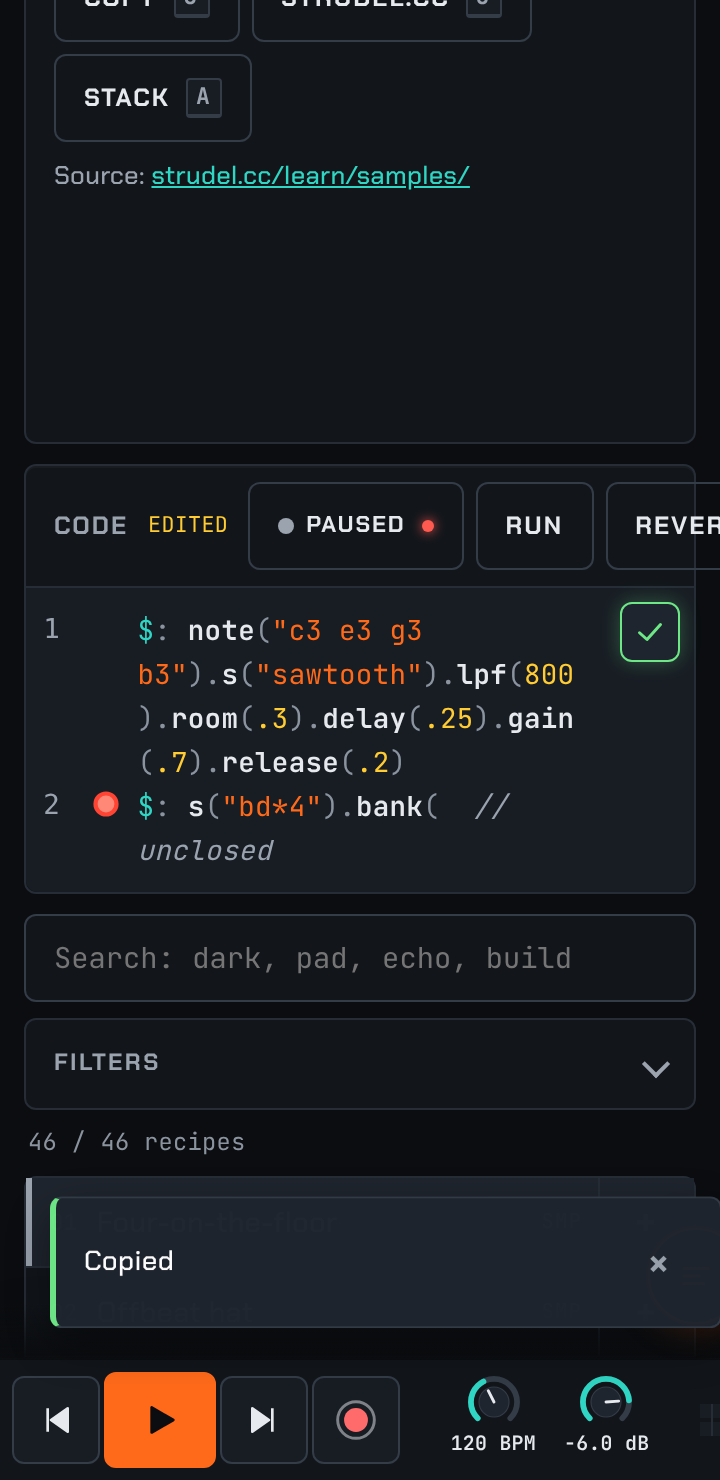
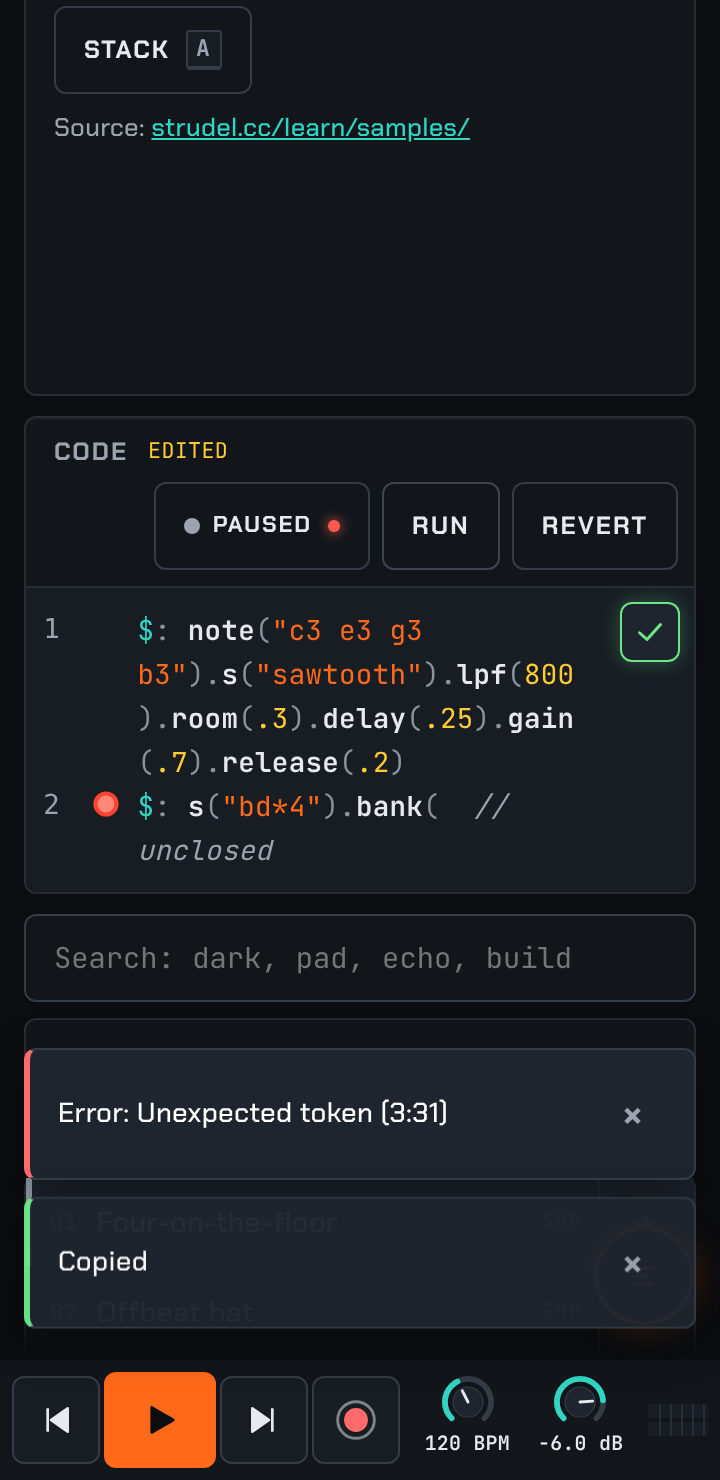
site: copy code rework - untrusted share links capped (256 KiB decoded, payload length checked first, streamed inflate aborted at the cap; oversized / malformed / wrong prefix / non-UTF-8 / empty links load nothing and toast the reason; link encoding over the limit refused with a toast; shared code 
Claude-Session: https://claude.ai/code/session_01Tu9yF4wnpzWubFx4QdEMLQ

diff --git a/site/copycode.js b/site/copycode.js
@@ -50,19 +50,63 @@ async function writeLater(promise) {
 const b64u = (bytes) => { let s = ''; for (let i = 0; i < bytes.length; i += 8192) s += String.fromCharCode.apply(null, bytes.subarray(i, i + 8192)); return btoa(s).replace(/\+/g, '-').replace(/\//g, '_').replace(/=+$/, ''); };
 const unb64u = (s) => { s = s.replace(/-/g, '+').replace(/_/g, '/'); while (s.length % 4) s += '='; const b = atob(s); const u = new Uint8Array(b.length); for (let i = 0; i < b.length; i++) u[i] = b.charCodeAt(i); return u; };
 const pipe = async (bytes, Stream, fmt) => new Uint8Array(await new Response(new Blob([bytes]).stream().pipeThrough(new Stream(fmt))).arrayBuffer());
-async function link(code) {
-  const raw = new TextEncoder().encode(code); let tag = 'p', body = raw;
-  if (window.CompressionStream) try { body = await pipe(raw, CompressionStream, 'deflate-raw'); tag = 'z'; } catch (e) { body = raw; tag = 'p'; }
-  return location.origin + location.pathname + '#code/' + tag + b64u(body);
+/* A shared link is untrusted input. Limits: decoded code at most MAX_CODE bytes of UTF-8 (256 KiB); the encoded payload after
+   "#code/z|p" at most MAX_HASH base64url chars (enough for MAX_CODE stored plain, plus slack), checked before any decoding.
+   Inflation is streamed in small input slices with backpressure and aborted the moment the running output passes MAX_CODE,
+   so a deflate bomb never materialises. Every failure throws a LinkError whose message is the toast text. */
+const MAX_CODE = 256 * 1024, MAX_HASH = Math.ceil((MAX_CODE + 2048) / 3) * 4, SLICE = 256;
+const kb = (n) => Math.ceil(n / 1024) + ' kB';
+class LinkError extends Error {}
+const bad = (why) => { throw new LinkError(why); };
+async function inflateCapped(bytes, max) {
+  const ds = new DecompressionStream('deflate-raw'), w = ds.writable.getWriter(), r = ds.readable.getReader();
+  let stop = false;
+  /* writer: one small slice at a time (deflate's worst ratio is ~1:1032, so a slice yields at most ~264 kB), waiting on backpressure */
+  const feed = (async () => { try { for (let i = 0; i < bytes.length && !stop; i += SLICE) { await w.ready; if (stop) break; await w.write(bytes.subarray(i, i + SLICE)); } if (!stop) await w.close(); } catch (e) { /* aborted or bad data: the reader reports it */ } })();
+  const out = []; let n = 0;
+  try {
+    for (;;) {
+      let step; try { step = await r.read(); } catch (e) { bad('That code link is damaged (the compressed data is not valid) and was not loaded'); }
+      if (step.done) break; n += step.value.length;
+      if (n > max) bad(`That code link holds more than ${kb(max)} of code and was not loaded`);
+      out.push(step.value);
+    }
+  } catch (e) { stop = true; r.cancel().catch(() => {}); w.abort().catch(() => {}); throw e; } finally { await feed; }
+  const all = new Uint8Array(n); let o = 0; for (const c of out) { all.set(c, o); o += c.length; } return all;
 }
+async function link(code) {
+  const raw = new TextEncoder().encode(code);
+  if (raw.length > MAX_CODE) bad(`This code is ${kb(raw.length)}; shareable links hold up to ${kb(MAX_CODE)}. Use Copy code or Copy with controls and state instead`);
+  let tag = 'p', body = raw;
+  if (window.CompressionStream) try { const z = await pipe(raw, CompressionStream, 'deflate-raw'); if (z.length < raw.length) { body = z; tag = 'z'; } } catch (e) { body = raw; tag = 'p'; }
+  const enc = b64u(body); if (enc.length > MAX_HASH) bad(`This code is too large for a shareable link (limit ${kb(MAX_CODE)})`);
+  return location.origin + location.pathname + '#code/' + tag + enc;
+}
+/* null: not a code link at all. Otherwise the decoded code, or a LinkError naming why it was refused. */
 async function decode(hash) {
-  const m = /^#?code\/([zp])([\w-]*)$/.exec(hash || ''); if (!m) return null;
-  const bytes = unb64u(m[2]); return new TextDecoder().decode(m[1] === 'z' ? await pipe(bytes, DecompressionStream, 'deflate-raw') : bytes);
+  hash = String(hash || ''); const h = hash.replace(/^#/, '');
+  if (!h.startsWith('code/')) return null;
+  const tag = h.charAt(5), body = h.slice(6);
+  if (body.length > MAX_HASH) bad(`That code link is too large (over ${kb(MAX_CODE)} of code) and was not loaded`);
+  if (tag !== 'z' && tag !== 'p') bad('That code link has an unknown format and was not loaded');
+  if (!body) bad('That code link is empty; nothing was loaded');
+  if (!/^[A-Za-z0-9_-]+$/.test(body) || body.length % 4 === 1) bad('That code link is damaged (not valid base64url) and was not loaded');
+  let bytes; try { bytes = unb64u(body); } catch (e) { bad('That code link is damaged (not valid base64url) and was not loaded'); }
+  if (tag === 'z') { if (!window.DecompressionStream) bad('This browser cannot open compressed code links'); bytes = await inflateCapped(bytes, MAX_CODE); }
+  else if (bytes.length > MAX_CODE) bad(`That code link holds more than ${kb(MAX_CODE)} of code and was not loaded`);
+  let code; try { code = new TextDecoder('utf-8', { fatal: true }).decode(bytes); } catch (e) { bad('That code link is damaged (not UTF-8 text) and was not loaded'); }
+  if (!code.trim()) bad('That code link is empty; nothing was loaded');
+  return code;
 }
 async function loadHash(hash = location.hash) {
-  let code; try { code = await decode(hash); } catch (e) { toast('That code link is damaged and could not be read', { kind: 'error' }); return false; }
+  /* never evaluates or plays: it only replaces the Rack document; on any refusal the editor is left untouched */
+  let code; try { code = await decode(hash); } catch (e) {
+    toast(e instanceof LinkError ? e.message : 'That code link is damaged and could not be read', { kind: 'error' });
+    if (/^#?code\//.test(location.hash)) history.replaceState(null, '', '#rack');
+    return false;
+  }
   if (code == null) return false;
-  if (window.__sc) window.__sc.setView('rack', { push: false });
+  if (window.__sc) { window.__sc.setView('rack', { push: false }); if (window.__sc.holdLink) window.__sc.holdLink(); }
   const ta = document.getElementById('code'); ta.value = code; ta.dispatchEvent(new Event('input'));
   history.replaceState(null, '', '#rack');
   toast('Loaded shared code into Rack. Press Play to hear it; Revert restores the recipe.', { kind: 'ok' });
@@ -94,7 +138,14 @@ const LABEL = { code: 'Copied', selection: 'Copied selection', link: 'Copied sha
 async function copy(t = visible(), mode = 'code', btn) {
   let ok;
   if (mode === 'recipe') ok = await writeLater(recipe(t));
-  else if (mode === 'link') ok = await writeLater(link(text(t)));
+  else if (mode === 'link') {
+    /* refuse before touching the clipboard: a link over the limit would be refused on open anyway */
+    const code = text(t), n = new TextEncoder().encode(code).length;
+    if (n > MAX_CODE) { toast(`This code is ${kb(n)}; shareable links hold up to ${kb(MAX_CODE)}. Use Copy code or Copy with controls and state instead`, { kind: 'error' }); return false; }
+    const p = link(code); let why = null; p.catch((e) => { why = e; });
+    ok = await writeLater(p).catch(() => false);
+    if (why) { toast(why instanceof LinkError ? why.message : 'Could not make a shareable link', { kind: 'error' }); return false; }
+  }
   else { const s = mode === 'selection' ? selection(t) : text(t); if (mode === 'selection' && !s) { toast('Nothing selected', { kind: 'info', ms: 1500 }); return false; } ok = await write(s); }
   if (ok) { toast(LABEL[mode], { kind: 'ok', ms: 1600 }); if (btn) { btn.dataset.done = '1'; clearTimeout(btn.__t); btn.__t = setTimeout(() => delete btn.dataset.done, 1400); } }
   else toast('The browser blocked the clipboard. Tap to try again', { kind: 'error', sticky: true, onClick: () => copy(t, mode, btn) });
@@ -104,12 +155,15 @@ async function copy(t = visible(), mode = 'code', btn) {
 /* ---------- menu ---------- */
 let menu = null, menuFor = null;
 function closeMenu(focus = true) { if (!menu || menu.hidden) return; menu.hidden = true; const b = menuFor && menuFor.btn; if (b) b.setAttribute('aria-expanded', 'false'); if (focus && b) b.focus({ preventScroll: true }); menuFor = null; }
-function openMenu(btn, t) {
+function openMenu(btn, t, last = false) {
   if (!menu) {
     menu = document.createElement('div'); menu.className = 'cc-menu'; menu.id = 'ccMenu'; menu.setAttribute('role', 'menu'); menu.hidden = true; document.body.append(menu);
     menu.addEventListener('click', (e) => { const it = e.target.closest('[data-mode]'); if (!it || it.disabled) return; const f = menuFor; closeMenu(); copy(f.t, it.dataset.mode, f.btn); });
     menu.addEventListener('keydown', (e) => { const its = [...menu.querySelectorAll('button:not([disabled])')]; const i = its.indexOf(document.activeElement);
-      if (e.key === 'ArrowDown' || e.key === 'ArrowUp') { e.preventDefault(); its[(i + (e.key === 'ArrowDown' ? 1 : its.length - 1)) % its.length].focus(); } else if (e.key === 'Escape' || e.key === 'Tab') { e.preventDefault(); closeMenu(); } });
+      if (e.key === 'ArrowDown' || e.key === 'ArrowUp') { e.preventDefault(); its[(i + (e.key === 'ArrowDown' ? 1 : its.length - 1)) % its.length].focus(); }
+      else if (e.key === 'Home' || e.key === 'End') { e.preventDefault(); its[e.key === 'Home' ? 0 : its.length - 1].focus(); }
+      else if (e.key === 'ArrowLeft' || e.key === 'ArrowRight') e.preventDefault();
+      else if (e.key === 'Escape' || e.key === 'Tab') { e.preventDefault(); closeMenu(); } });
     document.addEventListener('pointerdown', (e) => { if (menu && !menu.hidden && !menu.contains(e.target) && !(menuFor && menuFor.btn.contains(e.target))) closeMenu(false); }, true);
     window.addEventListener('resize', () => closeMenu(false));
   }
@@ -119,7 +173,7 @@ function openMenu(btn, t) {
   const r = btn.getBoundingClientRect(), w = menu.offsetWidth, h = menu.offsetHeight;
   const top = r.bottom + 4 + h > innerHeight - 8 ? Math.max(8, r.top - 4 - h) : r.bottom + 4;
   menu.style.left = Math.max(8, Math.min(innerWidth - w - 8, r.right - w)) + 'px'; menu.style.top = top + 'px';
-  (menu.querySelector('[data-mode="code"]')).focus({ preventScroll: true });
+  const its = menu.querySelectorAll('button:not([disabled])'); (last ? its[its.length - 1] : its[0]).focus({ preventScroll: true });
 }
 
 /* ---------- button ---------- */
@@ -136,14 +190,21 @@ function button(target) {
   ['pointercancel', 'pointerleave'].forEach((ev) => b.addEventListener(ev, () => { clearTimeout(timer); t0 = -1; }));
   b.addEventListener('contextmenu', (e) => { e.preventDefault(); clearTimeout(timer); if (!(menu && !menu.hidden && menuFor && menuFor.btn === b)) openMenu(b, t()); held = true; });
   b.addEventListener('click', (e) => { e.preventDefault(); e.stopPropagation(); if (held) { held = false; return; } copy(t(), 'code', b); });
-  b.addEventListener('keydown', (e) => { if (e.key === 'ArrowDown' || (e.key === 'F10' && e.shiftKey)) { e.preventDefault(); openMenu(b, t()); } });
+  /* menu-button pattern: Enter/Space activate (native click = copy), Down/Up open the menu on the first/last item, Esc closes.
+     data-keys="own" tells the global shortcut handler (app.js onKey) to leave these keys to the widget. */
+  b.dataset.keys = 'own';
+  b.addEventListener('keydown', (e) => {
+    if (e.key === 'ArrowDown' || e.key === 'ArrowUp' || (e.key === 'F10' && e.shiftKey)) { e.preventDefault(); openMenu(b, t(), e.key === 'ArrowUp'); }
+    else if (e.key === 'Escape') { if (menu && !menu.hidden) { e.preventDefault(); closeMenu(); } }
+    else if (e.key === 'ArrowLeft' || e.key === 'ArrowRight' || e.key === 'Home' || e.key === 'End') e.preventDefault();
+  });
   b.addEventListener('mousedown', (e) => e.preventDefault()); /* keep the editor selection and focus */
   return b;
 }
 function attachEditor(view) {
   const ta = document.getElementById(TA[view]); const v = ta && ta.cmView; const host = v ? v.dom : null;
   if (!host || host.querySelector(':scope > .cc-btn')) return !!host;
-  host.classList.add('cc-host'); host.append(button(view)); return true;
+  host.classList.add('cc-host'); host.prepend(button(view)); return true; /* first in tab order: reached before the editor, which keeps Tab for indent */
 }
 function attachSyntax(root = document.getElementById('syntax')) {
   if (!root) return; root.querySelectorAll('.sx-ex').forEach((f) => { if (!f.querySelector('pre') || f.querySelector(':scope > .cc-btn')) return; f.classList.add('cc-host'); f.append(button(f)); });
@@ -164,5 +225,5 @@ function registerPalette() {
   return true;
 }
 if (!registerPalette()) { const iv = setInterval(() => { if (registerPalette()) clearInterval(iv); }, 300); setTimeout(() => clearInterval(iv), 15000); }
-sc.copycode = { copy, text, selection, link, decode, loadHash, recipe, attach };
+sc.copycode = { copy, text, selection, link, decode, loadHash, recipe, attach, limits: { code: MAX_CODE, hash: MAX_HASH } };
 if (document.readyState === 'loading') document.addEventListener('DOMContentLoaded', watch); else watch();

diff --git a/site/app.js b/site/app.js
@@ -406,6 +406,7 @@ function currentSource(view = playView()) {
 Engine.evalCount = 0;
 async function play(src = currentSource()) {
   if (!src) return;
+  S.linkHold = false; /* an explicit Play / Run is the user's consent to evaluate shared-link code */
   if (src.empty) { say('Stack is empty. Add layers with + or A, or type a program.', true); return; }
   const btn = $('#playBtn'); btn.classList.add('busy'); S.busy = true;
   const pv = playView(); const prep = bindPrep(src.kind === 'stack' ? 'stack' : pv, src.code);
@@ -503,6 +504,7 @@ async function settleRun(views, ctx) {
     const live = S.playing && view === playView();
     try {
       if (S.playing) { if (live && S.live && !S.busy) { ctx.stats.compiles++; await Engine.swap(prep.code, ctx.alive); Engine.evalCount++; S.playingId = src.id; } }
+      else if (S.linkHold && view === 'rack') { /* code from a shared #code/ link: never evaluated until the user presses Play / Run */ }
       else if (!S.busy && window.strudelCraft.idleCompile !== false && navigator.onLine && Engine.loadable !== false) { ctx.stats.compiles++; await Engine.idle(prep.code, ctx.alive, view); } /* offline: controls still render from the AST */
     } catch (e) {
       if (e && e.stale) { ctx.cancelled(); return; }
@@ -562,6 +564,7 @@ function renderList(keepId) {
 }
 function select(i, { scroll = true, audition = true } = {}) {
   if (!S.filtered.length) return;
+  S.linkHold = false;
   S.sel = (i + S.filtered.length) % S.filtered.length;
   $$('#list li').forEach((li, j) => li.setAttribute('aria-current', j === S.sel ? 'true' : 'false'));
   if (scroll) { const li = $$('#list li')[S.sel]; if (li) li.scrollIntoView({ block: 'nearest', behavior: reducedMotion.matches ? 'auto' : 'smooth' }); }
@@ -700,6 +703,9 @@ const KEYS = [
   ['Ctrl/⌘ + Enter', 'Run the code in the editor'], ['Ctrl/⌘ + Z', 'Undo knob or stack change (Shift: redo)'],
   ['C', 'Copy code'], ['O', 'Open in strudel.cc'], ['T', 'Toggle theme'], ['H', 'Version history (undo, timeline, diff, search)'], ['?', 'This cheat sheet'],
 ];
+const KEY_WIDGET = '[data-keys="own"], [role="menu"], [role="menuitem"], [aria-haspopup="menu"], [aria-haspopup="true"]';
+const WIDGET_KEYS = new Set(['Enter', ' ', 'ArrowDown', 'ArrowUp', 'ArrowLeft', 'ArrowRight', 'Home', 'End', 'Escape']);
+const ACTIVATES = 'button:not(.row), a[href], summary, [role="button"], .chip, .add, .tp-btn, .play';
 function isField(t) { return t && (t.tagName === 'INPUT' || t.tagName === 'TEXTAREA' || t.isContentEditable); }
 function onKey(e) {
   if (window.strudelCraft.perform && window.strudelCraft.perform.capturing(e)) return;
@@ -711,12 +717,21 @@ function onKey(e) {
     return;
   }
   if ($('#help').open) return;
+  /* key scoping: a focused widget that handles its own keys (menu buttons, menus, [data-keys="own"]) owns the navigation and
+     activation keys; any focused native control (button, link, summary) owns Enter (and Space, except links) for its own
+     activation. None of those reach the global shortcuts, so a key never both activates a control and plays / reloads code.
+     Library rows are the exception: Enter / Space on a row are the play shortcuts. */
+  if (!mod && !e.altKey && t && t.closest) {
+    if (WIDGET_KEYS.has(e.key) && t.closest(KEY_WIDGET)) return;
+    const nat = (e.key === 'Enter' || e.key === ' ') && t.closest(ACTIVATES);
+    if (nat && !(e.key === ' ' && nat.matches('a'))) return;
+  }
   if (mod && (e.key === 'z' || e.key === 'Z')) { e.preventDefault(); e.shiftKey ? History.redo() : History.undo(); return; }
   if (mod && e.key === 'y') { e.preventDefault(); History.redo(); return; }
   if (mod || e.altKey) return;
   const k = e.key;
   const act = {
-    ' ': toggle, Enter: () => { if (t && t.closest && t.closest('.add, .inspector button, .layer button, a, .tools button, .tp-btn, .play, summary, .chip, #clear, #evalBtn, #revertBtn, #stackClear, #stackCopy')) return 'native'; play(); },
+    ' ': toggle, Enter: () => play(),
     ArrowDown: () => moveSel(1), ArrowUp: () => moveSel(-1), j: () => moveSel(1), k: () => moveSel(-1),
     '[': () => tempoK.nudge(e.shiftKey ? -10 : -1), ']': () => tempoK.nudge(e.shiftKey ? 10 : 1), '{': () => tempoK.nudge(-10), '}': () => tempoK.nudge(10),
     '-': () => masterK.nudge(-1), '=': () => masterK.nudge(1), '+': () => masterK.nudge(1), _: () => masterK.nudge(-1),
@@ -782,7 +797,8 @@ async function boot() {
   $('#stackClear').addEventListener('click', () => setStack([], 'clear stack'));
   $$('.views a').forEach((a) => a.addEventListener('click', (e) => { e.preventDefault(); setView(a.dataset.view); }));
   document.addEventListener('keydown', onKey);
-  document.addEventListener('keyup', (e) => { if (e.key === ' ' && !isField(e.target) && !$('#help').open) e.preventDefault(); });
+  /* Space activates a focused button on keyup: only swallow it where Space is the global play shortcut (not on controls, see onKey) */
+  document.addEventListener('keyup', (e) => { const t = e.target; if (e.key !== ' ' || isField(t) || $('#help').open) return; const c = t && t.closest && (t.closest(KEY_WIDGET) || t.closest(ACTIVATES)); if (c && !c.matches('a')) return; e.preventDefault(); });
   window.addEventListener('hashchange', route);
   const onScheme = () => { Viz.readColors(); Viz.drawAll(performance.now()); }; reducedMotion.addEventListener('change', onScheme);
   /* back from the background (phones suspend audio): resume the context; if the browser refuses without a gesture, offer the Enable audio button */
@@ -836,5 +852,5 @@ window.strudelCraft.transport = { play: () => play(), stop: () => stop(), toggle
   },
   async loadSampleMap(map) { await Engine.load(); await window.samples(map); } };
 window.strudelCraft.engineState = () => ({ ...Engine.state, scheduler: Engine.scheduler, playing: S.playing, srcView: S.srcView || 'rack' });
-window.__sc = { S, Engine, Bus, play, stop, select, setView, History, toggleStack, audio: { resume: resumeAudio, get state() { const c = audioCtx(); return c ? c.state : 'none'; }, get peak() { return AudioSt.lastPeak; }, needsSamplesFor } };
+window.__sc = { S, Engine, Bus, play, stop, select, setView, History, toggleStack, holdLink: () => { S.linkHold = true; }, audio: { resume: resumeAudio, get state() { const c = audioCtx(); return c ? c.state : 'none'; }, get peak() { return AudioSt.lastPeak; }, needsSamplesFor } };
 document.addEventListener('DOMContentLoaded', boot);

diff --git a/site/README.md b/site/README.md
@@ -9,6 +9,10 @@ Published at https://glyphcore.github.io/Strudel-craft/ by `.github/workflows/pa
 - **Views** (`1`-`7`): Rack (browser, code editor, inspector), Stack (layer recipes into one `$:` program with per-layer mute and `postgain` level), Ref (plugin/function reference), Practice (best practices), Perform (pad banks and control boards), Syntax (runnable examples of the new paradigms), Graph (blueprint node editor over the shared model; loaded on first open).
 - Old URLs `compose.html`, `plugins.html`, `practices.html` redirect to `#stack`, `#ref`, `#practice`. A recipe deep link is `index.html#r/<recipe-id>`.
 - Shortcuts: press `?` in the app for the cheat sheet (Space, arrows / J K, Enter, `[` `]`, `-` `=`, A, `/`, Esc, Ctrl/Cmd+Enter, Ctrl/Cmd+Z, C, O, T).
+  Key scoping (`onKey` in app.js): a focused widget that handles its own keys (`[data-keys="own"]`, `role="menu"` / `menuitem`,
+  `aria-haspopup="menu"`, e.g. the copy button) owns Enter, Space, the arrows, Home / End and Esc; any other focused button, link or
+  summary owns Enter (and Space, except links) for its own activation. Those keys never also reach the global shortcuts, so a key on a
+  control never starts playback or swaps the editor code. Library rows keep Enter / Space as the play shortcuts.
 
 ## Audio and licences
 - `@strudel/web` 1.3.0 (AGPL-3.0-or-later) is loaded **unmodified** from unpkg on the first Play; it is not vendored.
@@ -569,7 +573,7 @@ and the chip dot. Test: `node tests/site/binding.mjs`.
 - **Transport range** (under the stage): position slider with scrub; readout `c 12.3 / 64 · 0:24 / 2:08` = current cycle / end cycle · elapsed / end time, plus remaining time. End is the loop End when looping, otherwise the play-time clamp end. Start, End and Go-to (tap the readout) take a cycle or `m:ss`; the unit button cycles cycle / bar / m:ss. Cycles are stored; times are converted with the live cps, so a tempo change keeps them right. Seeking re-anchors the Strudel 1.3.0 Cyclist time origin (`lastEnd` + tick reset; `setCycle` when present); the loop wraps inside the scheduler tick, sample-accurate. Clamp: 20 min per run by default (timer button: minutes, fade or hard stop), `+5 min` override near the limit. API `strudelCraft.range = { state, seek, parsePos, setLimit, extend }`.
 - **Workspace** (`W` or the layout button): docks Code, Graph, Recipes, Perform, Syntax, History and Tracker as panes pinned below the visuals. Each pane: move up/down/left/right, split (own row / join row above), collapse, close; desktop rows resize by dragging the gutter (arrow keys on a focused gutter); phones stack panes, reorder with the grip. Layouts Code, Perform, Visual, Full studio (`Alt+1..4`) plus saved ones (name + optional hotkey) live in `sc.ws.*`, so the history store versions them. API `strudelCraft.workspace = { on, off, load, save, layout, configs }`.
 - **Command palette** (`Ctrl+K`, configurable via the palette's "Set palette chord"; floating button on phones): type to filter (prefix, word prefix, substring, then fuzzy subsequence), arrows/Enter or digits 1-9 pick. Add actions with `strudelCraft.palette.register({id, title, group, keys, run})`.
-- **Copy code** (`copycode.js`, `copycode.css`): a 44px copy button at the top-right of the Rack editor, the Stack program and every Syntax example, in a right strip the code never runs under (no layout shift). Tap copies the whole CodeMirror doc (`navigator.clipboard.writeText`, hidden textarea + `execCommand('copy')` fallback), with a check mark and a Copied toast; it works with the code in an error state. Hold it (or right-click, Down, Shift+F10) for Copy selection, Copy as a shareable link (`#code/z<base64url deflate-raw>`, opened links load into Rack) and Copy with controls and state (recipe v1 JSON, `includes.code` only). Palette group Copy. API `strudelCraft.copycode = { copy, text, selection, link, decode, loadHash, recipe, attach }`. Test: `node tests/site/copycode.mjs` (360 px, clipboard granted).
+- **Copy code** (`copycode.js`, `copycode.css`): a 44px copy button at the top-right of the Rack editor, the Stack program and every Syntax example, in a right strip the code never runs under (no layout shift). Tap copies the whole CodeMirror doc (`navigator.clipboard.writeText`, hidden textarea + `execCommand('copy')` fallback), with a check mark and a Copied toast; it works with the code in an error state. Hold it (or right-click, Down, Shift+F10) for Copy selection, Copy as a shareable link (`#code/z<base64url deflate-raw>`, opened links load into Rack) and Copy with controls and state (recipe v1 JSON, `includes.code` only). Keyboard: Tab reaches the button before the editor; Enter / Space copy; Down / Up open the menu on its first / last item, Down / Up / Home / End move, Enter runs an item, Esc closes and returns focus (menu-button pattern; nothing reaches the global shortcuts). Shared links are untrusted input: **limit 256 KiB (262144 bytes) of UTF-8 code**. The encoded payload is length-checked before decoding (at most 352256 base64url chars), and `#code/z` inflation is streamed in 256-byte input slices and aborted as soon as the output passes 256 KiB, so a deflate bomb never materialises. Oversized, malformed base64url / deflate, unknown prefix, non-UTF-8 and empty payloads load nothing, leave the editor untouched and show an error toast naming the reason. Making a link from code over the limit is refused with a toast and nothing is copied. A loaded link is never evaluated or played: the idle compile is held for it until you press Play / Run (or pick another recipe). Palette group Copy. API `strudelCraft.copycode = { copy, text, selection, link, decode, loadHash, recipe, attach, limits }` (`limits = { code: 262144, hash: 352256 }`). Test: `node tests/site/copycode.mjs` (360 px, clipboard granted).
 - Test: `node tests/site/workspace.mjs` (palette fuzzy, pane move/split/close, layout save/load, scrub and loop via queried scheduler spans, readout, 44px targets, clamp + override at 360 and 1440 px).
 Smart literal editors (`literals.js`): tap a number, name, chord or mini-notation token to edit it in a fixed popover (scrub, combobox,
 chips, piano, sound list, toggle, step chips); a drag on a number rewrites the source once on release. A provider may own a literal's
